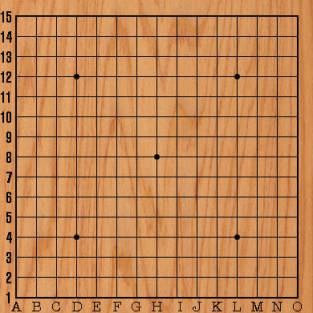
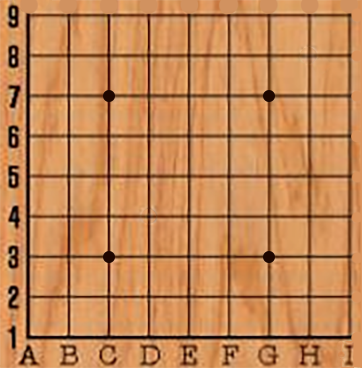
change the images and the size of the matrix

diff --git a/final_project/rule.py b/final_project/rule.py
@@ -14,8 +14,8 @@ class Rule(object):
     blackBall_filename = 'img/blackBall.png'
     # 正式规格：上下左右空隙16像素，格间距20像素，将棋盘抽象成15*15矩阵
     # top, left, space, lines = (16, 16, 20, 15)
-    # 测试规格：上下左右空间77像素，格间距20像素，将棋盘抽象成9*9矩阵
-    top, left, space, lines = (77, 77, 20, 9)
+    # 测试规格：上下空间30像素，左右空间30像素，格间距40像素，将棋盘抽象成9*9矩阵
+    top, left, space, lines = (30, 30, 40, 9)
     # 棋盘格子线颜色(黑)
     color = (0, 0, 0)
 

diff --git a/final_project/view.py b/final_project/view.py
@@ -6,7 +6,7 @@ def main():
     # pygame初始化
     pygame.init()
     # 设置窗口大小
-    size = width, height = 313, 313
+    size = width, height = 374, 384
     screen = pygame.display.set_mode(size)
     # 窗口标题
     pygame.display.set_caption('五子棋')
